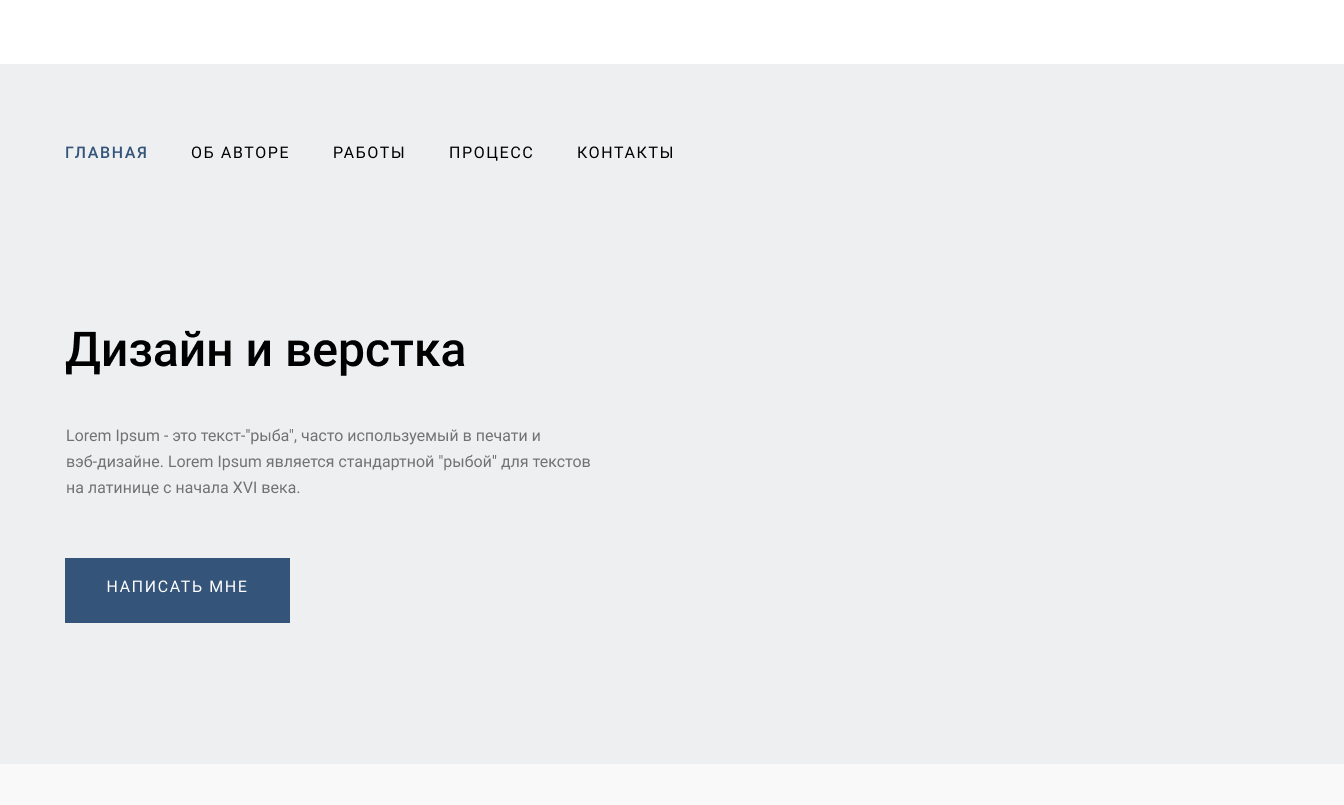
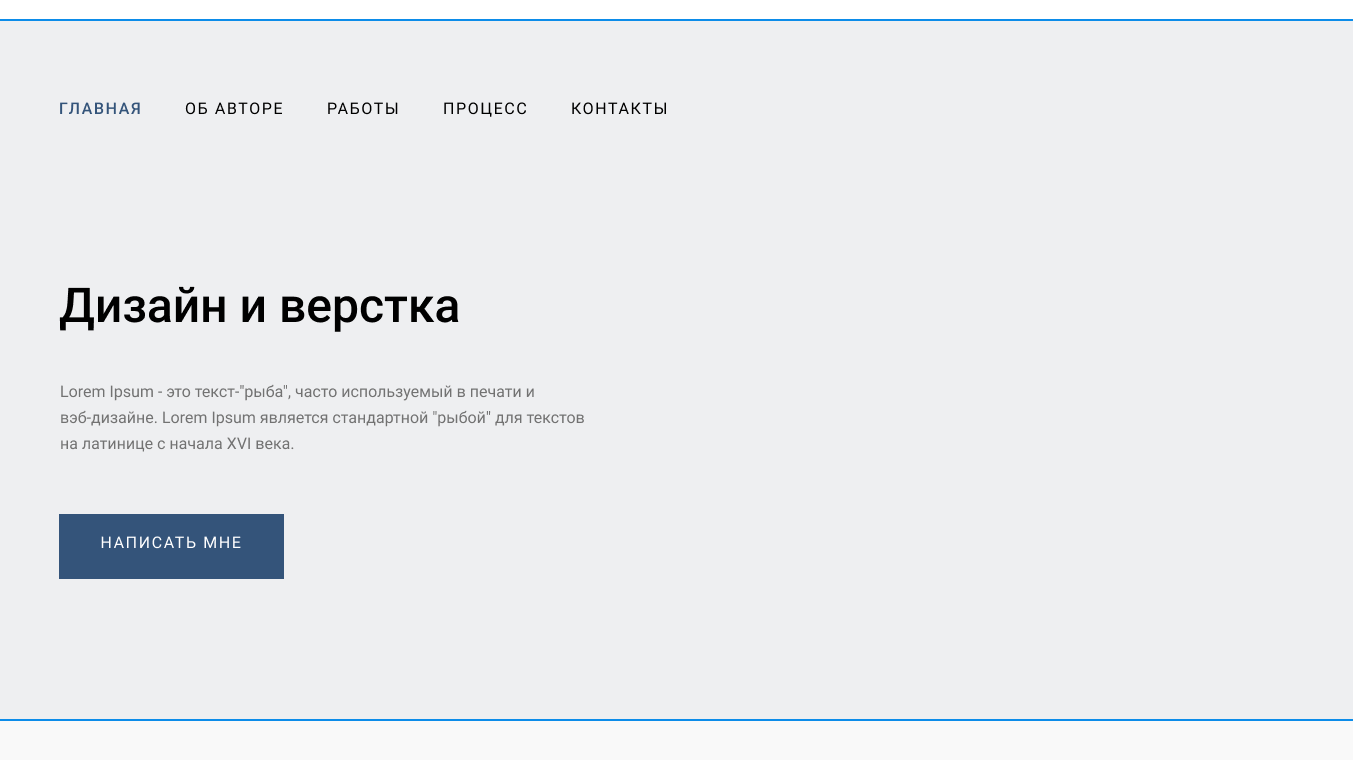
Update style.css with global CSS variables and container styles

diff --git a/assets/css/style.css b/assets/css/style.css
@@ -1,14 +1,27 @@
 :root {
+  --color-black: #000000;
+  --color-primary: #34547a;
+  --color-secondary: #727272;
+  --color-gray-light: #eeeff1;
+  --color-light: #f9f9f9;
+  --color-white: #ffffff;
+
   --font-size: 16px;
   --font-family: "Roboto", sans-serif;
+  --letter-spacing: 0.1em;
 
-  --container: 1110px;
+  --line-height: 1.2;
+  --line-height-lg: 1.64;
+
+  --container-primary: 1110px;
+  --container-sm: 540px;
   --gap: 20px;
   --gap-sm: calc(var(--gap) / 2); /* 10px */
   --gap-md: calc(var(--gap) * 1.5); /* 30px */
   --gap-lg: calc(var(--gap) * 2); /* 40px */
 }
 
+/* typography */
 * {
   margin: 0;
   padding: 0;
@@ -20,14 +33,91 @@ html {
   font-size: var(--font-size);
   font-family: var(--font-family);
   font-weight: 400;
-  line-height: 1.25;
+  line-height: 1.2;
 }
 
 a {
   text-decoration: none;
 }
 
+/* common */
 .container {
-  width: min(100% - var(--gap-lg), var(--container));
+  width: min(100% - var(--gap-lg), var(--container-primary));
   margin-inline: auto;
+}
+.container--sm {
+  width: min(100% - var(--gap-lg), var(--container-sm));
+}
+
+/* header */
+.header {
+  padding-top: 79px;
+  padding-bottom: 141px;
+  background-color: #eeeff1;
+}
+
+.navbar {
+  margin-bottom: 116px;
+}
+.navbar__list {
+  display: flex;
+  gap: var(--gap-lg);
+}
+.navbar__link {
+  color: var(--color-black);
+  letter-spacing: var(--letter-spacing);
+  padding: var(--gap-sm) 3px var(--gap-sm) 0;
+}
+.navbar__link--active {
+  color: var(--color-primary);
+  font-weight: 500;
+}
+
+.content {
+  display: flex;
+  flex-direction: column;
+  max-width: 540px;
+  align-items: flex-start;
+}
+.content__title {
+  font-size: 3rem;
+  font-weight: 500;
+  background-color: var(--color-gray-light);
+  line-height: var(--line-height-lg);
+  margin-bottom: 35px;
+}
+.content__description {
+  line-height: var(--line-height-lg);
+  margin-bottom: 55px;
+  color: var(--color-secondary);
+}
+.content__link {
+  min-width: 225px;
+  min-height: 65px;
+  color: var(--color-white);
+  background-color: var(--color-primary);
+  letter-spacing: var(--letter-spacing);
+  padding: 0.5em;
+  display: flex;
+  justify-content: center;
+  align-items: center;
+}
+
+/* about */
+.about {
+  padding-top: 112px;
+  padding-bottom: 90px;
+  background-color: var(--color-light);
+}
+.about__title {
+  color: var(--color-black);
+  text-align: center;
+  font-size: 2rem;
+  font-weight: 500;
+  margin-bottom: 39px;
+}
+.about__description {
+  line-height: var(--line-height-lg);
+  color: var(--color-secondary);
+  text-align: center;
 }
